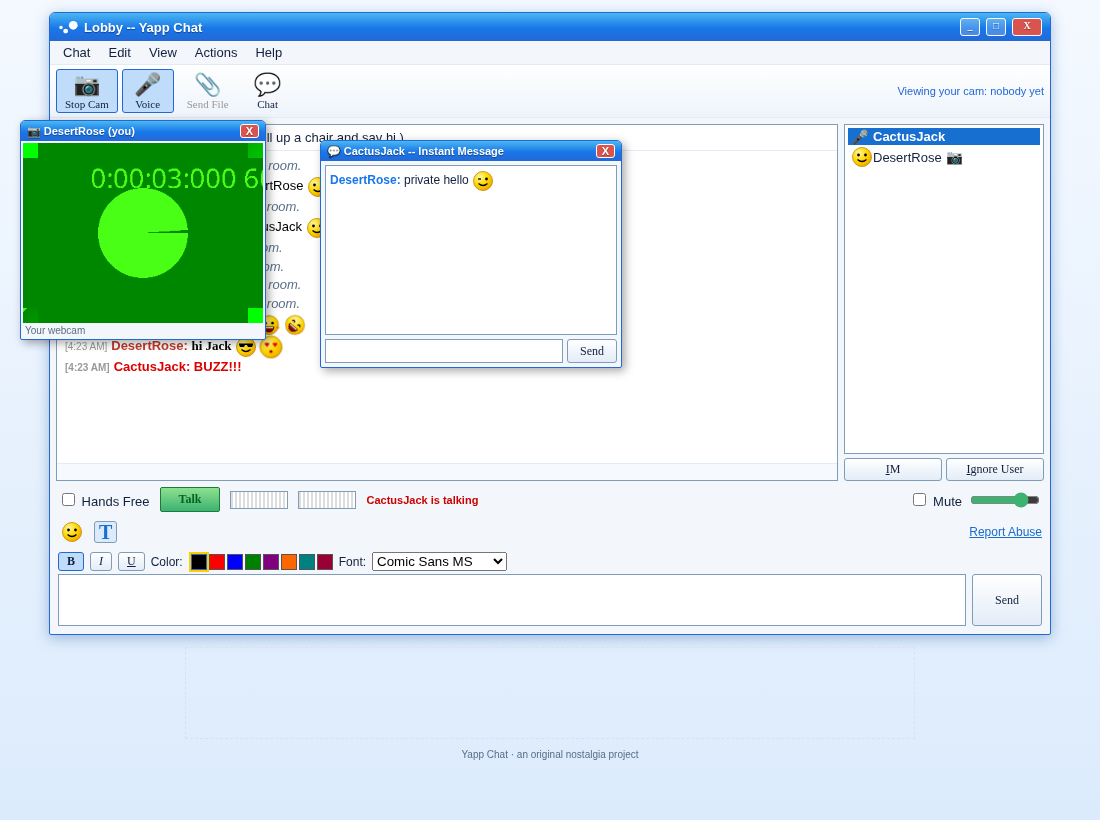
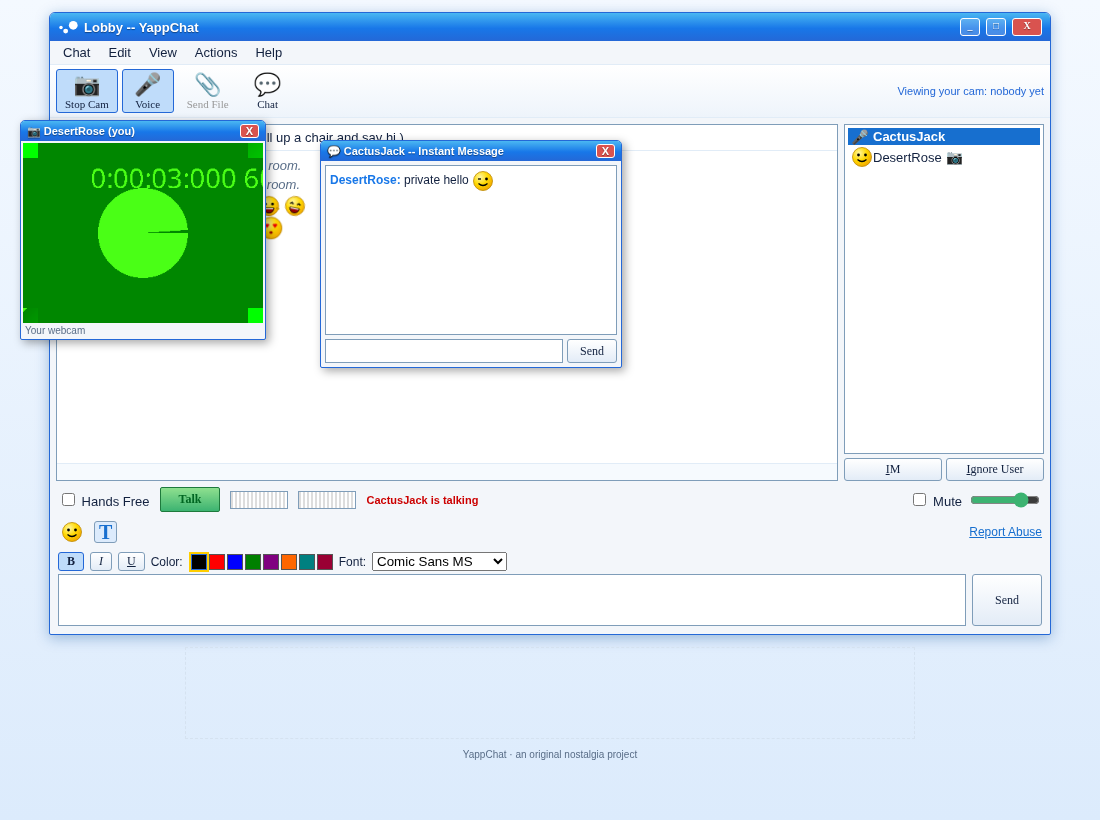
Webcam: Permissions-Policy, separate video request w/ fallback, clear errors; case-insensitive smiley codes; bolder classic-style smileys

diff --git a/public/smileys.js b/public/smileys.js
@@ -2,8 +2,8 @@
 (function(){
 // [code, title, eyes, mouth, extra, anim]
 const L=[
-[':)','happy','dot','smile','',''],[':(','sad','dot','frown','',''],[';)','winking','wink','smile','','blink'],[':D','big grin','dot','grin','','bob'],
-[';;)','batting eyelashes','lash','smile','','blink'],['>:D<','big hug','dot','grin','arms','pulse'],[':-/','confused','dot','slant','',''],[':x','love struck','heart','smallo','','pulse'],
+[':)','happy','dot','smile','',''],[':(','sad','dot','frown','',''],[';)','winking','wink','smile','','winkA'],[':D','big grin','dot','grin','','bob'],
+[';;)','batting eyelashes','lash','smile','','flutter'],['>:D<','big hug','dot','grin','arms','pulse'],[':-/','confused','dot','slant','',''],[':x','love struck','heart','smallo','','pulse'],
 [':">','blushing','dot','smile','blush',''],[':P','tongue','dot','tongue','','wag'],[':-*','kiss','dot','kiss','kisses','pulse'],['=((','broken heart','dot','frown','broken','shake'],
 [':-O','surprise','big','o','','pulse'],['X(','angry','x','frown','red','shake'],[':>','smug','dot','smirk','',''],['B-)','cool','shades','smile','',''],
 [':-S','worried','dot','wave','','shake'],['#:-S','whew!','dot','wave','sweat','shake'],['>:)','devil','dot','grin','horns','bob'],[':((','crying','dot','frown','tears','shake'],
@@ -23,14 +23,17 @@ const L=[
 ['~O)','coffee','','','coffee','bob'],['*-:)','idea','dot','smile','bulb','pulse'],['8-X','skull','skull','teeth','',''],['=:)','bug','dot','smile','antenna','wag'],
 ['>-)','alien','big','smallo','green',''],[':-L','frustrated','dot','wave','red','shake'],['[-O<','praying','closed','flat','',''],['$-)','money eyes','money','grin','','pulse'],
 [':-"','whistling','dot','kiss','note','bob'],['b-(','feeling beat up','x','frown','bruise','shake'],[':)>-','peace sign','dot','smile','peace','wag'],['[-X','shame on you','dot','frown','',''],
-[':D/','dancing','dot','grin','','spin2'],['>:/','bring it on','dot','slant','red',''],[';))','hee hee','wink','grin','','bob'],[':-@','chatterbox','dot','o','','pulse'],
+[':D/','dancing','dot','grin','','spin2'],['>:/','bring it on','dot','slant','red',''],[';))','hee hee','wink','grin','','winkA'],[':-@','chatterbox','dot','o','','pulse'],
 ['^:)^','not worthy','closed','smile','',''],[':-j','oh go on','dot','smirk','',''],['(*)','star','','','star','pulse'],[':)|','eyes','dot','flat','',''],
 ['o->','hiro','dot','smile','',''],['o=>','billy','dot','grin','',''],['o-+','april','dot','smile','',''],['(%)','yin yang','','','yinyang','spin2'],
 [':bz','bee','dot','smile','antenna','wag'],['[..]','transformer','dot','flat','',''],
+[':-)','happy','dot','smile','',''],[':-(','sad','dot','frown','',''],[';-)','winking','wink','smile','','winkA'],[':-D','big grin','dot','grin','','bob'],
+[':-P','tongue','dot','tongue','','wag'],[':-x','love struck','heart','smallo','','pulse'],[':O','surprise','big','o','','pulse'],[':*','kiss','dot','kiss','kisses','pulse'],
 ];
 const ORDER=L.map(r=>r[0]);L.sort((a,b)=>b[0].length-a[0].length);
-const eye={dot:'<circle cx="7.5" cy="9" r="1.4"/><circle cx="14.5" cy="9" r="1.4"/>',wink:'<path d="M6 9h3" stroke="#000" stroke-width="1.3"/><circle cx="14.5" cy="9" r="1.4"/>',
-lash:'<circle cx="7.5" cy="9" r="1.4"/><circle cx="14.5" cy="9" r="1.4"/><path d="M6 6.5l1 1M8.5 6l-.3 1.2M13 6.5l1 1M15.5 6l-.3 1.2" stroke="#000" stroke-width=".7"/>',
+const OV=(x)=>`<ellipse cx="${x}" cy="8.6" rx="1.3" ry="2"/><circle cx="${x-.4}" cy="7.8" r=".45" fill="#fff"/>`;
+const eye={dot:OV(7.5)+OV(14.5),wink:'<g class="wo">'+OV(7.5)+'</g><path class="wc" d="M5.6 9.2q1.9-1.6 3.8 0" stroke="#000" fill="none" stroke-width="1.4" stroke-linecap="round"/>'+OV(14.5),
+lash:'<g>'+OV(7.5)+OV(14.5)+'<path d="M5.6 7.2L3.6 5.2M6.6 6.5L5.6 4M7.9 6.3L7.9 3.7M16.4 7.2l2-2M15.4 6.5l1-2.5M14.1 6.3v-2.6" stroke="#000" stroke-width=".9" stroke-linecap="round"/></g>',
 heart:'<path d="M5.5 8.5a1.2 1.2 0 0 1 2-1 1.2 1.2 0 0 1 2 1L7.5 11zM12.5 8.5a1.2 1.2 0 0 1 2-1 1.2 1.2 0 0 1 2 1l-2 2.5z" fill="#e00"/>',
 big:'<circle cx="7.5" cy="9" r="2.4" fill="#fff" stroke="#000" stroke-width=".7"/><circle cx="14.5" cy="9" r="2.4" fill="#fff" stroke="#000" stroke-width=".7"/><circle cx="7.5" cy="9" r="1"/><circle cx="14.5" cy="9" r="1"/>',
 x:'<path d="M6 7.5l3 3M9 7.5l-3 3M13 7.5l3 3M16 7.5l-3 3" stroke="#000" stroke-width="1.1"/>',squint:'<path d="M5.8 9.5l1.7-1.5 1.7 1.5M12.8 9.5l1.7-1.5 1.7 1.5" stroke="#000" fill="none" stroke-width="1.1"/>',
@@ -39,14 +42,14 @@ shades:'<path d="M4 7.5h14v1.2l-1 2.3h-4l-1-2h-2l-1 2H5l-1-2.3z"/>',glasses:'<ci
 brow:'<circle cx="7.5" cy="9" r="1.4"/><circle cx="14.5" cy="9" r="1.4"/><path d="M12.5 5.8q2-1.3 4 0" stroke="#000" fill="none"/>',spiral:'<path d="M7.5 9m-2 0a2 2 0 1 0 2-2a1.2 1.2 0 1 0 1 1.5M14.5 9m-2 0a2 2 0 1 0 2-2a1.2 1.2 0 1 0 1 1.5" stroke="#000" fill="none" stroke-width=".7"/>',
 patch:'<circle cx="14.5" cy="9" r="1.4"/><path d="M3 6l16 1" stroke="#000" stroke-width=".7"/><ellipse cx="7.5" cy="9" rx="2.3" ry="2"/>',skull:'<circle cx="7.5" cy="9" r="2"/><circle cx="14.5" cy="9" r="2"/>',
 money:'<text x="5.5" y="11" font-size="5" font-weight="bold" fill="#080">$</text><text x="12.5" y="11" font-size="5" font-weight="bold" fill="#080">$</text>'};
-const mouth={smile:'<path d="M6.5 13.5q4.5 4 9 0" stroke="#000" fill="none" stroke-width="1.2"/>',frown:'<path d="M7 16.5q4-3.5 8 0" stroke="#000" fill="none" stroke-width="1.2"/>',
-grin:'<path d="M6 13h10q-1 5-5 5t-5-5z" fill="#900" stroke="#000" stroke-width=".8"/><path d="M6.8 13.2h8.4v1H6.8z" fill="#fff"/>',slant:'<path d="M7 15.5l8-1.5" stroke="#000" stroke-width="1.2"/>',
-smallo:'<circle cx="11" cy="15" r="1.3" fill="#900"/>',tongue:'<path d="M6.5 14h9" stroke="#000" stroke-width="1.2"/><path d="M9.5 14h3v2.5a1.5 1.5 0 0 1-3 0z" fill="#f47" class="tg"/>',
-kiss:'<path d="M10 14q2-1 2 .8q0 1.2-2 1.2" stroke="#c03" fill="none" stroke-width="1.3"/>',o:'<ellipse cx="11" cy="15" rx="2" ry="2.5" fill="#900" stroke="#000" stroke-width=".7"/>',
-smirk:'<path d="M7 14.5q5 1.5 8.5-1.5" stroke="#000" fill="none" stroke-width="1.2"/>',wave:'<path d="M6.5 15q1.2-1.5 2.4 0t2.2 0 2.2 0 2.2 0" stroke="#000" fill="none" stroke-width="1.1"/>',
+const mouth={smile:'<path d="M6.5 13.5q4.5 4 9 0" stroke="#000" fill="none" stroke-width="1.4" stroke-linecap="round"/>',frown:'<path d="M7 16.5q4-3.5 8 0" stroke="#000" fill="none" stroke-width="1.4" stroke-linecap="round"/>',
+grin:'<path d="M5.3 12.6h11.4q-.6 5.8-5.7 5.8t-5.7-5.8z" fill="#8a0010" stroke="#000" stroke-width="1"/><path d="M6 13h10v1.3H6z" fill="#fff"/><path d="M8.5 17.2q2.5-1.6 5 0" fill="#ff5a7a"/>',slant:'<path d="M7 15.5l8-1.5" stroke="#000" stroke-width="1.2"/>',
+smallo:'<circle cx="11" cy="15" r="1.3" fill="#900"/>',tongue:'<path d="M6 13.6q5 2 10 0" stroke="#000" fill="none" stroke-width="1.3" stroke-linecap="round"/><g class="tg"><path d="M8.6 14.3h4.8v3.6a2.4 2.4 0 0 1-4.8 0z" fill="#ff4f7a" stroke="#000" stroke-width=".8"/><path d="M11 14.6v3" stroke="#c0294d" stroke-width=".6"/></g>',
+kiss:'<ellipse cx="11" cy="14.8" rx="1.9" ry="1.5" fill="#e0103a" stroke="#000" stroke-width=".7"/><path d="M9.4 14.8h3.2" stroke="#800" stroke-width=".5"/>',o:'<ellipse cx="11" cy="15" rx="2" ry="2.5" fill="#900" stroke="#000" stroke-width=".7"/>',
+smirk:'<path d="M7 14.5q5 1.5 8.5-1.5" stroke="#000" fill="none" stroke-width="1.4" stroke-linecap="round"/>',wave:'<path d="M6.5 15q1.2-1.5 2.4 0t2.2 0 2.2 0 2.2 0" stroke="#000" fill="none" stroke-width="1.1"/>',
 flat:'<path d="M7 15h8" stroke="#000" stroke-width="1.2"/>',teeth:'<rect x="7" y="13.5" width="8" height="3" fill="#fff" stroke="#000" stroke-width=".7"/><path d="M9 13.5v3M11 13.5v3M13 13.5v3" stroke="#000" stroke-width=".5"/>',
 zip:'<path d="M6.5 15h9" stroke="#000" stroke-width="1.2"/><path d="M7.5 14v2M9 14v2M10.5 14v2M12 14v2M13.5 14v2" stroke="#666" stroke-width=".6"/>'};
-const ex={arms:'<path d="M1 14l3-1M21 14l-3-1" stroke="#c90" stroke-width="2"/>',blush:'<ellipse cx="5.5" cy="12.5" rx="1.8" ry="1" fill="#f88"/><ellipse cx="16.5" cy="12.5" rx="1.8" ry="1" fill="#f88"/>',
+const ex={arms:'<path d="M.5 16q1.5-4 3.5-3.5M21.5 16q-1.5-4-3.5-3.5" stroke="#000" stroke-width="2.6" fill="none" stroke-linecap="round"/><path d="M.5 16q1.5-4 3.5-3.5M21.5 16q-1.5-4-3.5-3.5" stroke="#ffc400" stroke-width="1.4" fill="none" stroke-linecap="round"/>',blush:'<ellipse class="bl" cx="5.3" cy="12.3" rx="2.2" ry="1.3" fill="#ff5d6c" opacity=".75"/><ellipse class="bl" cx="16.7" cy="12.3" rx="2.2" ry="1.3" fill="#ff5d6c" opacity=".75"/>',
 kisses:'<path d="M17 4a.8.8 0 0 1 1.4-.6.8.8 0 0 1 1.4.6l-1.4 1.7z" fill="#e00"/>',broken:'<path d="M15 2a1.5 1.5 0 0 1 2.5-1 1.5 1.5 0 0 1 2.5 1l-2.5 3z" fill="#e00"/><path d="M17.5 1l-.6 1.6.9.8-.4 1.6" stroke="#fff" fill="none" stroke-width=".5"/>',
 sweat:'<path d="M17.5 4q1.5 2 0 3t0-3z" fill="#4af"/>',horns:'<path d="M4 4l1 4 3-2zM18 4l-1 4-3-2z" fill="#c00"/>',horns2:'<path d="M4 2l2 5 2-1zM18 2l-2 5-2-1z" fill="#999"/>',
 tears:'<path d="M6.5 11v4M15.5 11v4" stroke="#4af" stroke-width="1.3" class="tear"/>',halo:'<ellipse cx="11" cy="2" rx="5" ry="1.3" fill="none" stroke="#fd0" stroke-width="1.2"/>',
@@ -64,19 +67,24 @@ clover:'<g fill="#2a2"><circle cx="8" cy="8" r="3"/><circle cx="14" cy="8" r="3"
 flag:'<path d="M5 2v19" stroke="#555" stroke-width="1.3"/><path d="M6 3h12l-3 4 3 4H6z" fill="#e33"/>',coffee:'<path d="M4 9h11v7a4 4 0 0 1-4 4H8a4 4 0 0 1-4-4z" fill="#963"/><path d="M15 11h2a2 2 0 0 1 0 4h-2" stroke="#963" fill="none" stroke-width="1.2"/><path d="M7 7q1-2 0-4M11 7q1-2 0-4" stroke="#aaa" fill="none" stroke-width=".8"/>',
 star:'<path d="M11 1l2.9 6.5 7 .6-5.3 4.6 1.6 7L11 16l-6.2 3.7 1.6-7L1.1 8.1l7-.6z" fill="#fd0" stroke="#c90" stroke-width=".6"/>',
 yinyang:'<circle cx="11" cy="11" r="9" fill="#fff" stroke="#000"/><path d="M11 2a4.5 4.5 0 0 1 0 9a4.5 4.5 0 0 0 0 9a9 9 0 0 1 0-18z"/><circle cx="11" cy="6.5" r="1.2" fill="#fff"/><circle cx="11" cy="15.5" r="1.2"/>'};
-const svg=([c,t,e,m,x,a])=>{const face=e?`<circle cx="11" cy="11" r="9.5" fill="url(#rcg)" stroke="#b80" stroke-width=".8"/>`:'';
- return `<svg class="rcs ${a}" viewBox="0 0 22 22" width="22" height="22" role="img" aria-label="${t}">${face}${x&&!e?'':''}${['green','red','pumpkin'].includes(x)?ex[x]:''}<g>${eye[e]||''}${mouth[m]||''}</g>${['green','red','pumpkin'].includes(x)?'':(ex[x]||'')}</svg>`};
+const svg=([c,t,e,m,x,a])=>{const face=e?`<circle cx="11" cy="11" r="9.5" fill="url(#rcg)" stroke="#000" stroke-width="1.1"/>`:'';
+ return `<svg class="rcs ${a}" viewBox="0 0 22 22" width="22" height="22" role="img" aria-label="${t}">${face}${x&&!e?'':''}${['green','red','pumpkin'].includes(x)?ex[x]:''}<g class="ey">${eye[e]||''}</g>${mouth[m]||''}${['green','red','pumpkin'].includes(x)?'':(ex[x]||'')}</svg>`};
 const escH=s=>s.replace(/&/g,'&amp;').replace(/</g,'&lt;').replace(/>/g,'&gt;').replace(/"/g,'&quot;').replace(/'/g,'&#39;');
 const map=L.map(r=>({code:r[0],esc:escH(r[0]),title:r[1],html:`<span class="rcw" title="${escH(r[0])}  ${escH(r[1])}">${svg(r)}</span>`}));
-const re=new RegExp(map.map(m=>m.esc.replace(/[.*+?^${}()|[\]\\]/g,'\\$&')).join('|')+'|&(?:[a-z]+|#[0-9]+);','g');
-const byEsc=Object.fromEntries(map.map(m=>[m.esc,m.html]));
+const re=new RegExp(map.map(m=>m.esc.replace(/[.*+?^${}()|[\]\\]/g,'\\$&')).join('|')+'|&(?:[a-z]+|#[0-9]+);','gi');
+const byEsc={};map.slice().reverse().forEach(m=>byEsc[m.esc.toLowerCase()]=m.html);map.forEach(m=>{if(!(m.esc in byEsc))byEsc[m.esc]=m.html});
 // input: already-HTML-escaped text; only replace outside of entities (entities are matched whole by alternation order since codes contain escaped forms)
-window.RCSmileys={list:L.slice().sort((a,b)=>0),replace:t=>t.replace(re,m=>byEsc[m]||m),html:c=>map.find(m=>m.code==c).html,codes:map,ordered:ORDER.map(c=>map.find(m=>m.code==c))};
+window.RCSmileys={list:L.slice().sort((a,b)=>0),replace:t=>t.replace(re,m=>/^&(?:[a-z]+|#[0-9]+);$/i.test(m)?m:(byEsc[m]||byEsc[m.toLowerCase()]||m)),html:c=>map.find(m=>m.code==c).html,codes:map,ordered:ORDER.slice(0,ORDER.length-8).map(c=>map.find(m=>m.code==c))};
 const st=document.createElement('style');st.textContent=`.rcw{display:inline-block;vertical-align:middle;line-height:0}.rcs{overflow:visible}
 @keyframes rcbob{50%{transform:translateY(-2px)}}@keyframes rcpulse{50%{transform:scale(1.15)}}@keyframes rcshake{25%{transform:translateX(-1px)}75%{transform:translateX(1px)}}
 @keyframes rcspin{to{transform:rotate(360deg)}}@keyframes rcwag{50%{transform:rotate(12deg)}}@keyframes rcblink{0%,85%,100%{transform:scaleY(1)}90%{transform:scaleY(.1)}}
 .rcs.bob{animation:rcbob .8s infinite}.rcs.pulse{animation:rcpulse 1s infinite}.rcs.shake{animation:rcshake .4s infinite}.rcs.spin{animation:rcspin 1.6s linear infinite}
-.rcs.spin2 g{animation:rcspin 2.5s linear infinite;transform-origin:11px 11px}.rcs.wag{animation:rcwag .9s infinite;transform-origin:11px 20px}.rcs.blink g{animation:rcblink 2.5s infinite;transform-origin:11px 9px}
+.rcs.spin2 g{animation:rcspin 2.5s linear infinite;transform-origin:11px 11px}.rcs.wag{animation:rcwag 1.4s infinite;transform-origin:11px 20px}.rcs.blink .ey{animation:rcblink 2.5s infinite;transform-origin:11px 9px}
+@keyframes rcflut{0%,100%{transform:scaleY(1)}10%,30%,50%{transform:scaleY(.12)}20%,40%,60%{transform:scaleY(1)}}.rcs.flutter .ey{animation:rcflut 1.4s infinite;transform-origin:11px 8.6px}
+@keyframes rcwo{0%,35%,75%,100%{opacity:1}40%,70%{opacity:0}}@keyframes rcwc{0%,35%,75%,100%{opacity:0}40%,70%{opacity:1}}@keyframes rctilt{0%,30%,80%,100%{transform:rotate(0)}45%,65%{transform:rotate(-10deg)}}
+.rcs .wc{opacity:0}.rcs.winkA .wo{animation:rcwo 1.6s infinite}.rcs.winkA .wc{animation:rcwc 1.6s infinite}.rcs.winkA{animation:rctilt 1.6s infinite}
+@keyframes rctg{0%,100%{transform:scaleY(1)}50%{transform:scaleY(1.35) rotate(6deg)}}.rcs .tg{animation:rctg .7s infinite;transform-origin:11px 14.3px}
+@keyframes rcbl{50%{opacity:1}}.rcs .bl{animation:rcbl 1s infinite}
 .rcs .tear{animation:rcbob .6s infinite}.rcs{transform-origin:11px 11px}`;document.head.appendChild(st);
 document.body.insertAdjacentHTML('beforeend','<svg width="0" height="0" style="position:absolute"><defs><radialGradient id="rcg" cx=".35" cy=".3" r=".8"><stop offset="0" stop-color="#fff7a0"/><stop offset=".5" stop-color="#ffd800"/><stop offset="1" stop-color="#f0a000"/></radialGradient></defs></svg>');
 })();

diff --git a/public/index.html b/public/index.html
@@ -228,8 +228,17 @@ document.addEventListener('keydown',e=>{if(e.key=='Control'&&!e.repeat&&me&&!$('
 document.addEventListener('keyup',e=>{if(e.key=='Control'&&me&&!$('hf').checked)setTalk(false)});
 $('hf').onchange=async()=>{if($('hf').checked){await setTalk(true);tb.textContent='Talk (on)'}else{await setTalk(false);tb.textContent='Talk'}};
 $('cam').onclick=async()=>{if(camS){stopCam();return}
- try{camS=await navigator.mediaDevices.getUserMedia({video:{width:320,height:240,frameRate:15}})}catch(e){return alert('Webcam not available: '+e.message)}
+ if(!window.isSecureContext||!navigator.mediaDevices||!navigator.mediaDevices.getUserMedia)return camErr({name:'InsecureContext',message:'Camera API unavailable (page must be opened over https)'});
+ try{camS=await navigator.mediaDevices.getUserMedia({video:{width:{ideal:320},height:{ideal:240},frameRate:{ideal:15}},audio:false})}catch(e){
+  if(e.name=='OverconstrainedError'||e.name=='ConstraintNotSatisfiedError'||e.name=='TypeError'){try{camS=await navigator.mediaDevices.getUserMedia({video:true})}catch(e2){return camErr(e2)}}else return camErr(e)}
  $('cam').classList.add('on');$('cam').innerHTML='<span>&#128247;</span>Stop Cam';S.emit('cam',true);openWin(S.id,me+' (you)',camS)};
+function camErr(e){console.warn('[webcam]',e.name,e.message);const n=e.name||'Error';let m;
+ if(n=='NotAllowedError'||n=='PermissionDeniedError'||n=='SecurityError')m='Camera permission was denied ('+n+').\n\nTo allow it: click the lock / site-settings icon left of the address bar \u2192 Camera \u2192 Allow, then reload the page.\nAlso check your OS privacy settings (macOS: System Settings \u2192 Privacy & Security \u2192 Camera; Windows: Settings \u2192 Privacy \u2192 Camera) allow your browser.';
+ else if(n=='NotReadableError'||n=='TrackStartError'||n=='AbortError')m='Your camera is in use by another app ('+n+').\n\nClose Zoom/Teams/FaceTime/OBS or other tabs using the camera, then try again.';
+ else if(n=='NotFoundError'||n=='DevicesNotFoundError')m='No camera was found ('+n+').\n\nPlug in or enable a webcam, then try again.';
+ else if(n=='OverconstrainedError')m='Your camera does not support the requested video mode ('+n+').';
+ else m='Webcam not available ('+n+': '+(e.message||'')+').';
+ alert(m)}
 function stopCam(){camS&&camS.getTracks().forEach(t=>t.stop());camS=null;Object.keys(pcs).filter(x=>x[0]=='v').forEach(x=>closePc('v',x.slice(1)));
  $('cam').classList.remove('on');$('cam').innerHTML='<span>&#128247;</span>Webcam';$('viewers').textContent='';S.emit('cam',false);closeWin(S.id,true)}
 S.on('view-req',({id})=>{if(!camS)return;closePc('v',id);const pc=pcFor('v',id,true);camS.getTracks().forEach(t=>pc.addTrack(t,camS))});

diff --git a/server.js b/server.js
@@ -4,9 +4,10 @@ const app = express(), server = http.createServer(app), io = new Server(server, 
 const ROOMS = { 'Lobby':'General','Friends':'General','Chit Chat':'General','Late Night':'General' };
 const TOPICS = { 'Lobby':'Welcome! Pull up a chair and say hi','Friends':'Make new friends and catch up with old ones','Chit Chat':'Talk about anything and everything','Late Night':'For the night owls - who else is still up?' };
 const MAXLEN = 300, HIST = 50, COLORS = ['#000000','#ff0000','#0000ff','#008000','#800080','#ff6600','#008080','#990033'];
-const users = new Map(); const VERSION = 'v4-yappchat'; // lower(name) -> socket.id
+const users = new Map(); const VERSION = 'v5-cam-smileys'; // lower(name) -> socket.id
 const history = Object.fromEntries(Object.keys(ROOMS).map(r => [r, []]));
 const esc = s => String(s).replace(/[&<>"']/g, c => ({'&':'&amp;','<':'&lt;','>':'&gt;','"':'&quot;',"'":'&#39;'}[c]));
+app.use((req,res,next)=>{res.setHeader('Permissions-Policy','camera=(self), microphone=(self), display-capture=(self)');next()});
 app.use(express.static(__dirname + '/public'));
 app.get('/healthz', (q, r) => r.send('ok')); app.get('/api/version', (q, r) => r.json({ version: VERSION }));
 app.get('/api/rooms', (q, r) => r.json(Object.entries(ROOMS).map(([name, cat]) => ({ name, cat, topic: TOPICS[name], count: members(name).length }))));
